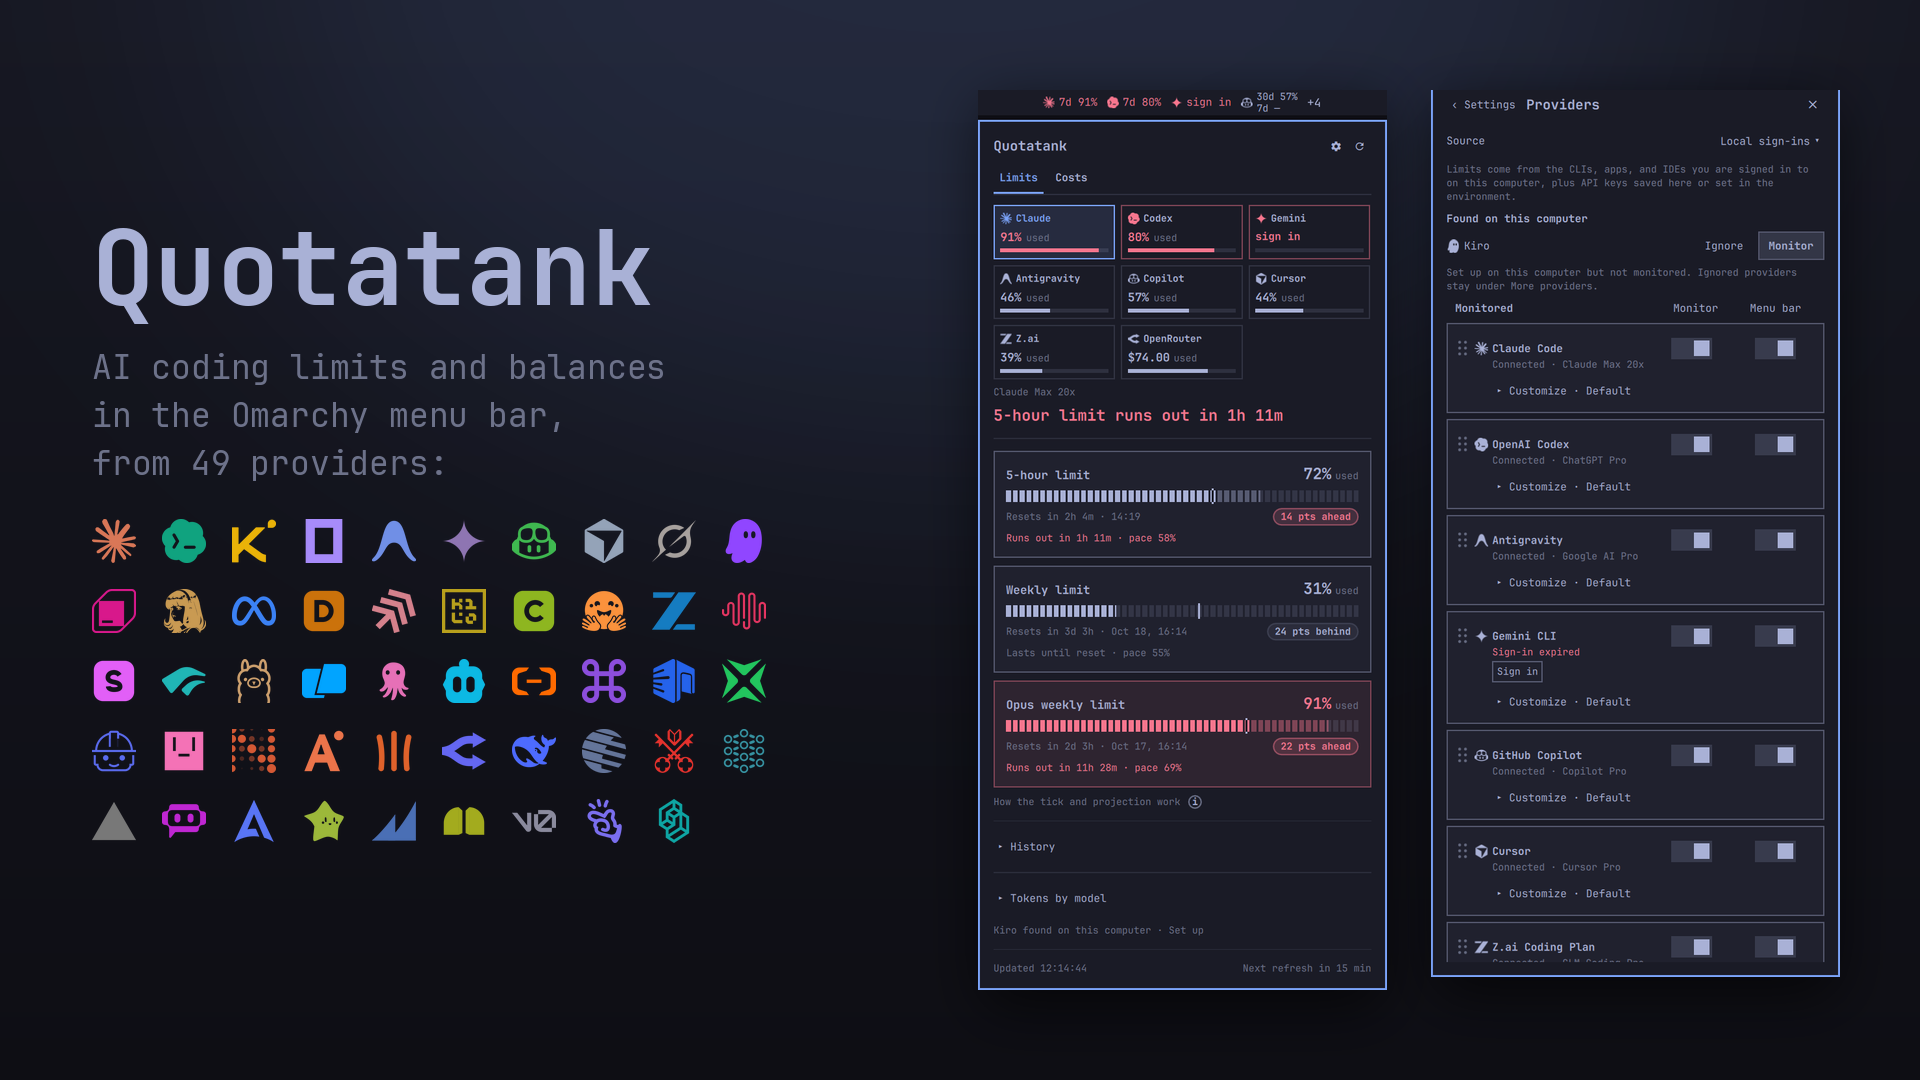
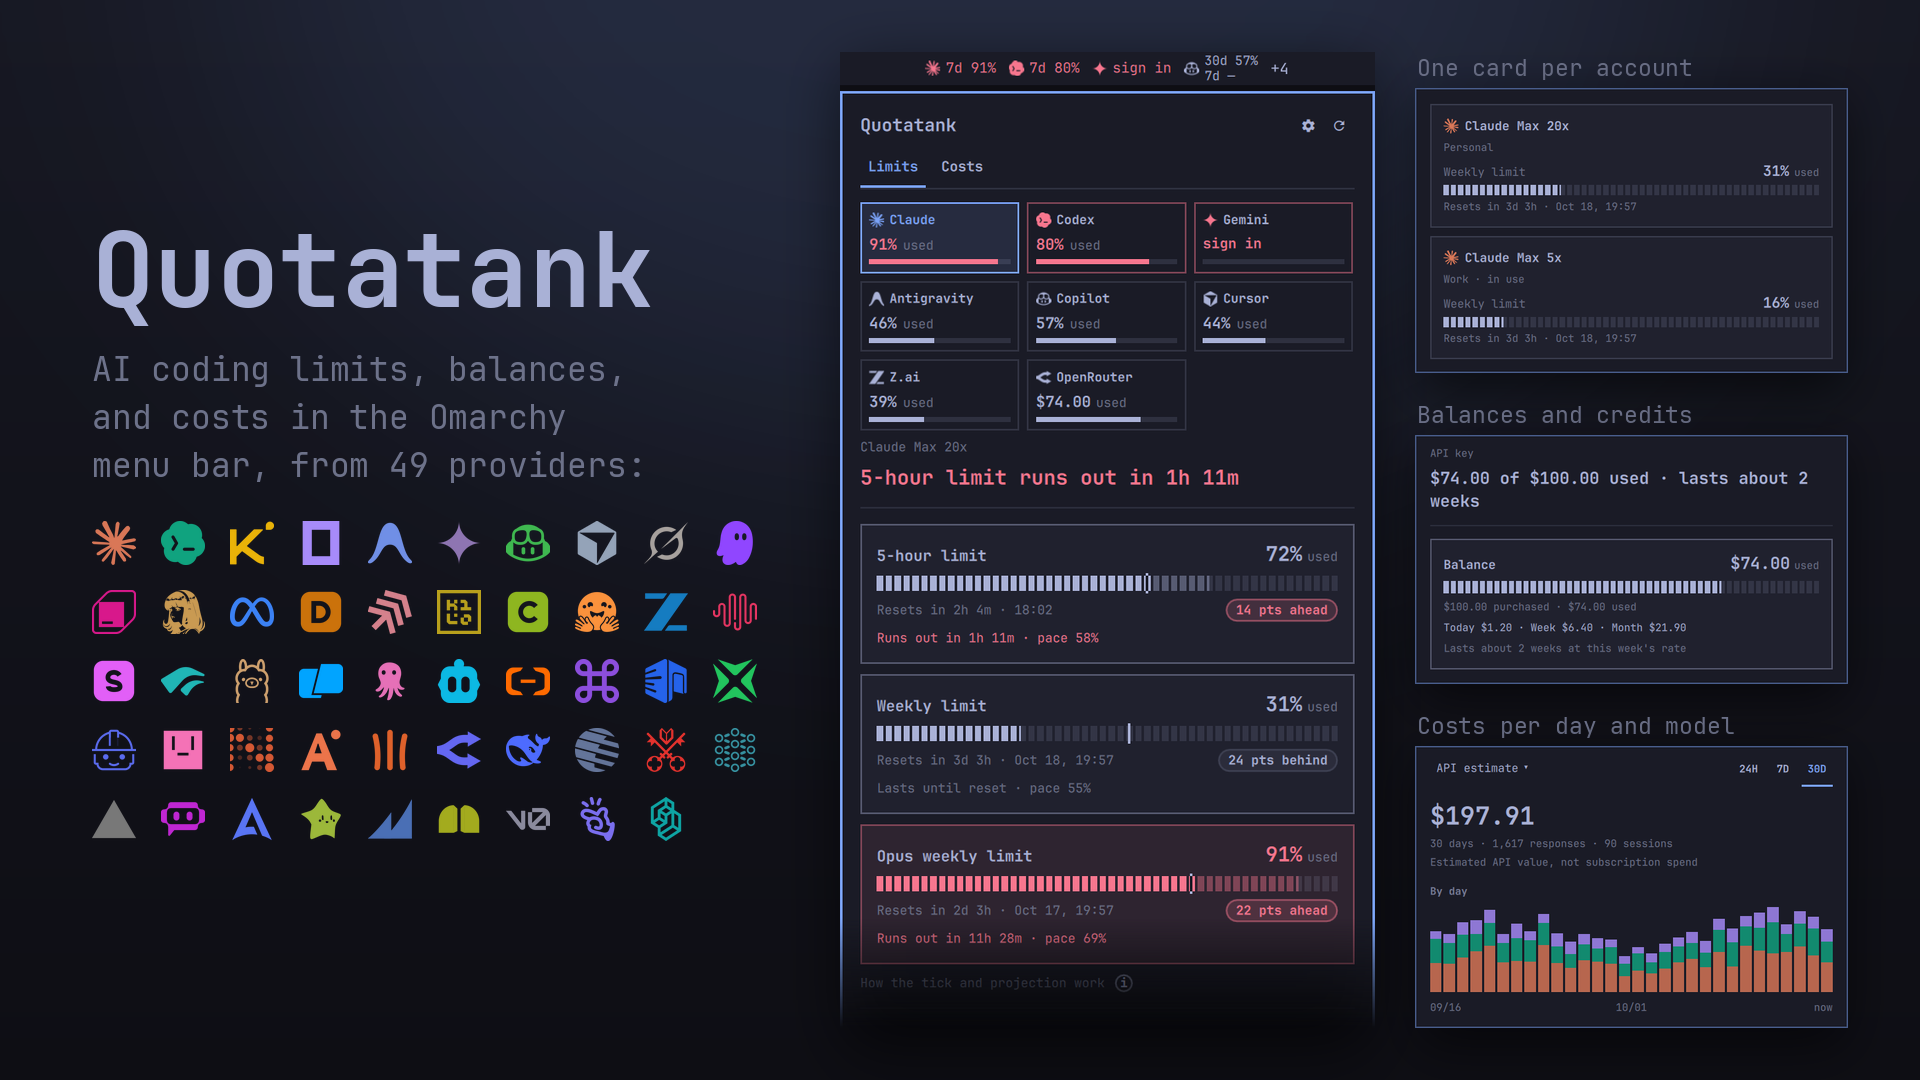
Release 1.8.1

diff --git a/CHANGELOG.md b/CHANGELOG.md
@@ -4,6 +4,12 @@ All notable changes to this project will be documented here. The format follows
 [Keep a Changelog](https://keepachangelog.com/en/1.1.0/), and releases use
 [Semantic Versioning](https://semver.org/spec/v2.0.0.html).
 
+## 1.8.1
+
+### Changed
+
+- The marketplace preview leads with Limits: the Claude panel with its menu-bar chips, pace, and run-out forecast, beside cards for several accounts, a balance, and daily costs, next to every provider's mark.
+
 ## 1.8.0
 
 ### Added
